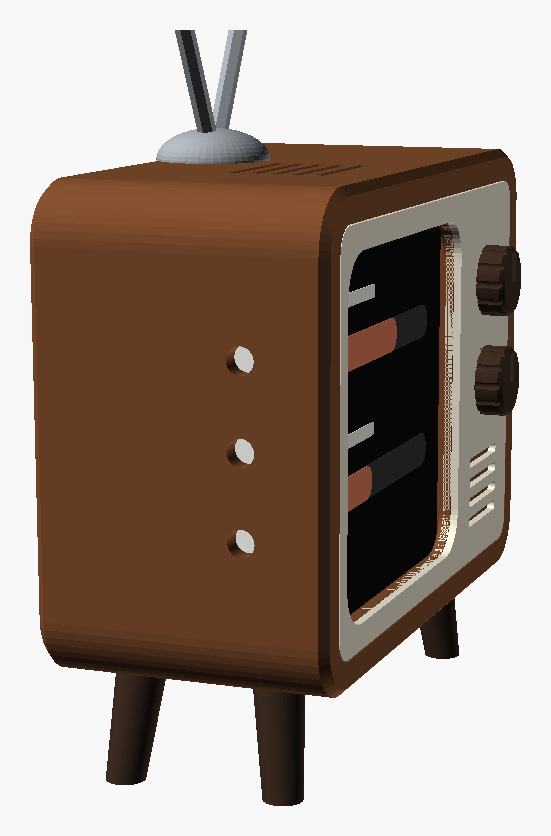
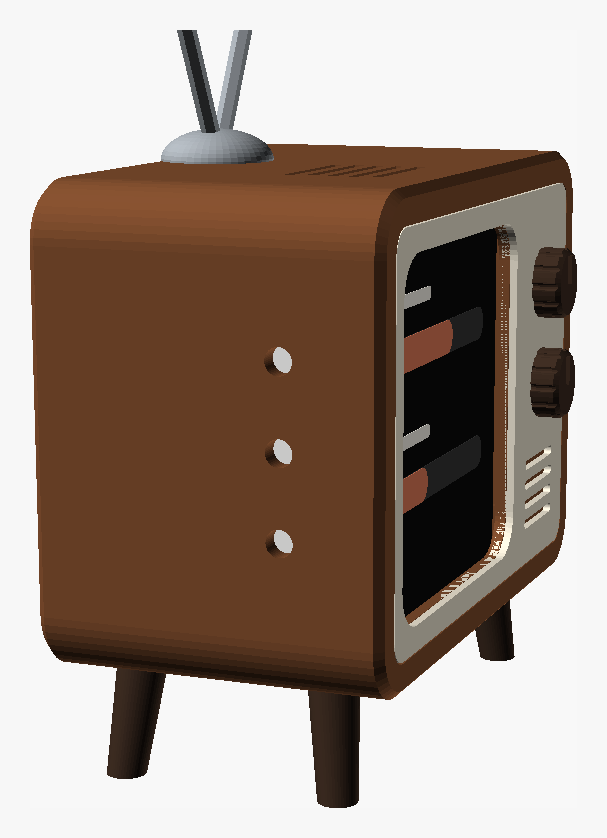
Retro-TV dock: 16 mm cable lane behind the device for a stiff cable
Braided USB-C cable cannot fold flat against the device's back; the lane
now leaves ~12 mm bend radius for the turn from the plug round the back
and the turn out of the exit hole. The back-cover pressers move up to the
top of the device so the cable passes underneath them. Body depth is now
42 mm.

Claude-Session: https://claude.ai/code/session_01DCgFXNHjuUnVVy5jf825vG

diff --git a/enclosure/retro_tv/README.md b/enclosure/retro_tv/README.md
@@ -17,11 +17,13 @@ left, and the speaker up.
 - Slots in the TV's top let the speaker sound out.
 - The device's motion sensor (IMU) turns the picture upright by itself. Touch
   needs no change, since a tap anywhere just switches screens.
-- The cable runs behind the device along the floor and leaves through the
-  back cover's bottom corner on the button side (bottom right seen from
-  behind).
+- The cable leaves the plug heading back, curves round behind the device,
+  runs along its back and leaves through the back cover's bottom corner on
+  the button side (bottom right seen from behind). The space behind the
+  device (`cable_lane`, 16 mm) leaves room for a ~12 mm bend radius, because
+  braided cables are too stiff to fold flat against the device's back.
 
-Size: 75 × 56 × 35 mm body. On its legs it stands about 70 mm tall, or about
+Size: 75 × 56 × 42 mm body. On its legs it stands about 70 mm tall, or about
 104 mm to the antenna tips. Run `openscad -D 'part="dims"' -o x.stl retro_tv.scad`
 to print the numbers after you change parameters.
 
@@ -59,7 +61,7 @@ All STLs come out already in print orientation:
 |---|---|---|
 | `body` | walnut brown | Face-down, no supports. |
 | `faceplate` | cream | Glue it into the front recess. This gives the two-tone look without a multi-colour printer. |
-| `back_cover` | walnut | Friction fit, with vents. Its two pressers hold the device against the front. |
+| `back_cover` | walnut | Friction fit, with vents. Its two pressers (high up, clear of the cable) hold the device against the front. |
 | `knobs` | dark brown | Decorative, pinned with a short stub of 1.75 mm filament. |
 | `legs` | dark brown | 4 legs, all the same length at `tilt = 0`. Press-fit or glue. |
 | `antenna` | grey | Dome + 2 rods. 2 mm metal rod or a bamboo skewer looks better than printed rods. |
@@ -73,8 +75,9 @@ Matte PLA, 0.16–0.2 mm layers, 3–4 walls, 15–20 % gyroid.
 2. Drop the three plungers into the left-side holes from the inside.
 3. Slide the device in from the back: screen first, USB-C to the right,
    buttons to the left, speaker up.
-4. Plug in the right-angle USB-C. Run the cable behind the device, along the
-   floor, to the bottom corner on the button side, and lay it into the notch.
+4. Plug in the right-angle USB-C. Curve the cable round behind the device,
+   along its back, to the bottom corner on the button side, and lay it into
+   the notch.
 5. Stick a small felt or rubber pad (1–2 mm) on each presser of the back
    cover, then press the cover on. The pads push the device snugly against
    the front.
